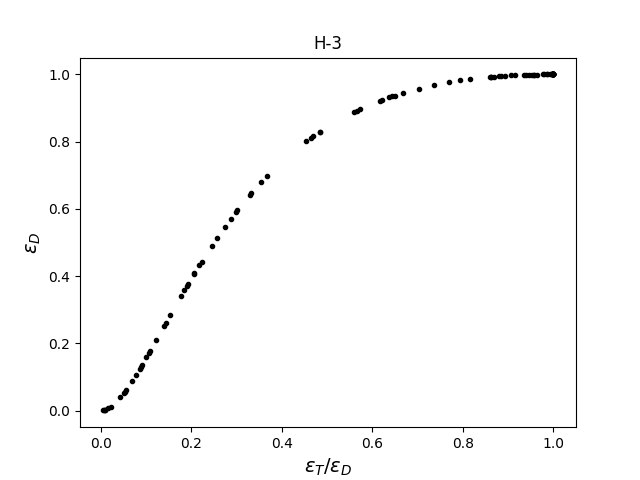
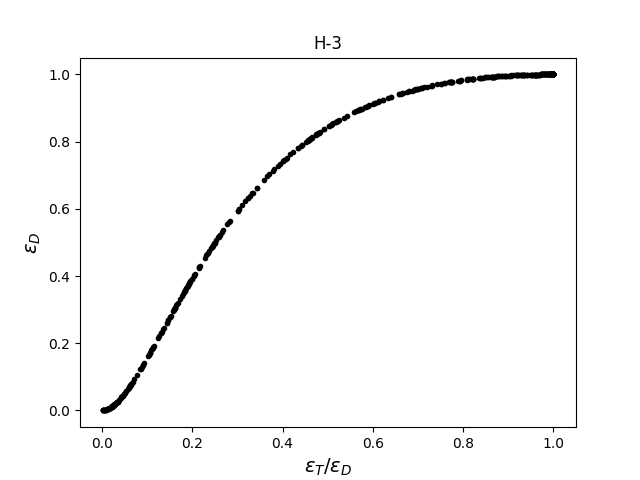
test efficiency curves

diff --git a/MCTDCRcode/main_MCTDCR.py b/MCTDCRcode/main_MCTDCR.py
@@ -16,7 +16,7 @@ import scipy.stats as st
 
 
 ## INPUT OF THE MODEL
-N=1               # number of simulated decay (MC trials)
+N=5               # number of simulated decay (MC trials)
 Rad=["H-3"]       # list of radionuclides
 pmf_1=[1.0]       # relative abondance (pmf)
 kB = 1e-5         # Birks constant in cm/keV
@@ -150,11 +150,11 @@ for L_i in L: # loop on the free parameter values
             if p == "alpha":
                 energy_vec[i] = 0
                 for j in e_discrete:
-                    energy_vec[i] += delta_e/(1+kB*tl.stoppingpowerA(j)) # input keV / output (keV.cm-1)
+                    energy_vec[i] += delta_e/(1+kB*tl.stoppingpowerA(j)) # input (keV) / output (keV)
             if p == "electron":
                 energy_vec[i] = 0
                 for j in e_discrete:
-                    energy_vec[i] += delta_e/(1+kB*1e3*tl.stoppingpower(j*1e3)) # stoppingpower :input in eV / output in MeV.cm
+                    energy_vec[i] += delta_e/(1+kB*1e3*tl.stoppingpower(j*1e3)) # stoppingpower :input in (eV) / output (keV)
     
        print("\t\t quenched energy : ", energy_vec, "keV")
 
@@ -162,6 +162,7 @@ for L_i in L: # loop on the free parameter values
        ## We fill our 3 results vectors
        efficiency_T.append((1-np.exp(-L_i*sum(energy_vec)/3))**3)
        efficiency_D.append(3*(1-np.exp(-L_i*sum(energy_vec)/3))**2-2*efficiency_T[-1])
+
 
     # We calculate the final estimator
     mean_efficiency_T.append(np.mean(efficiency_T)) # average
